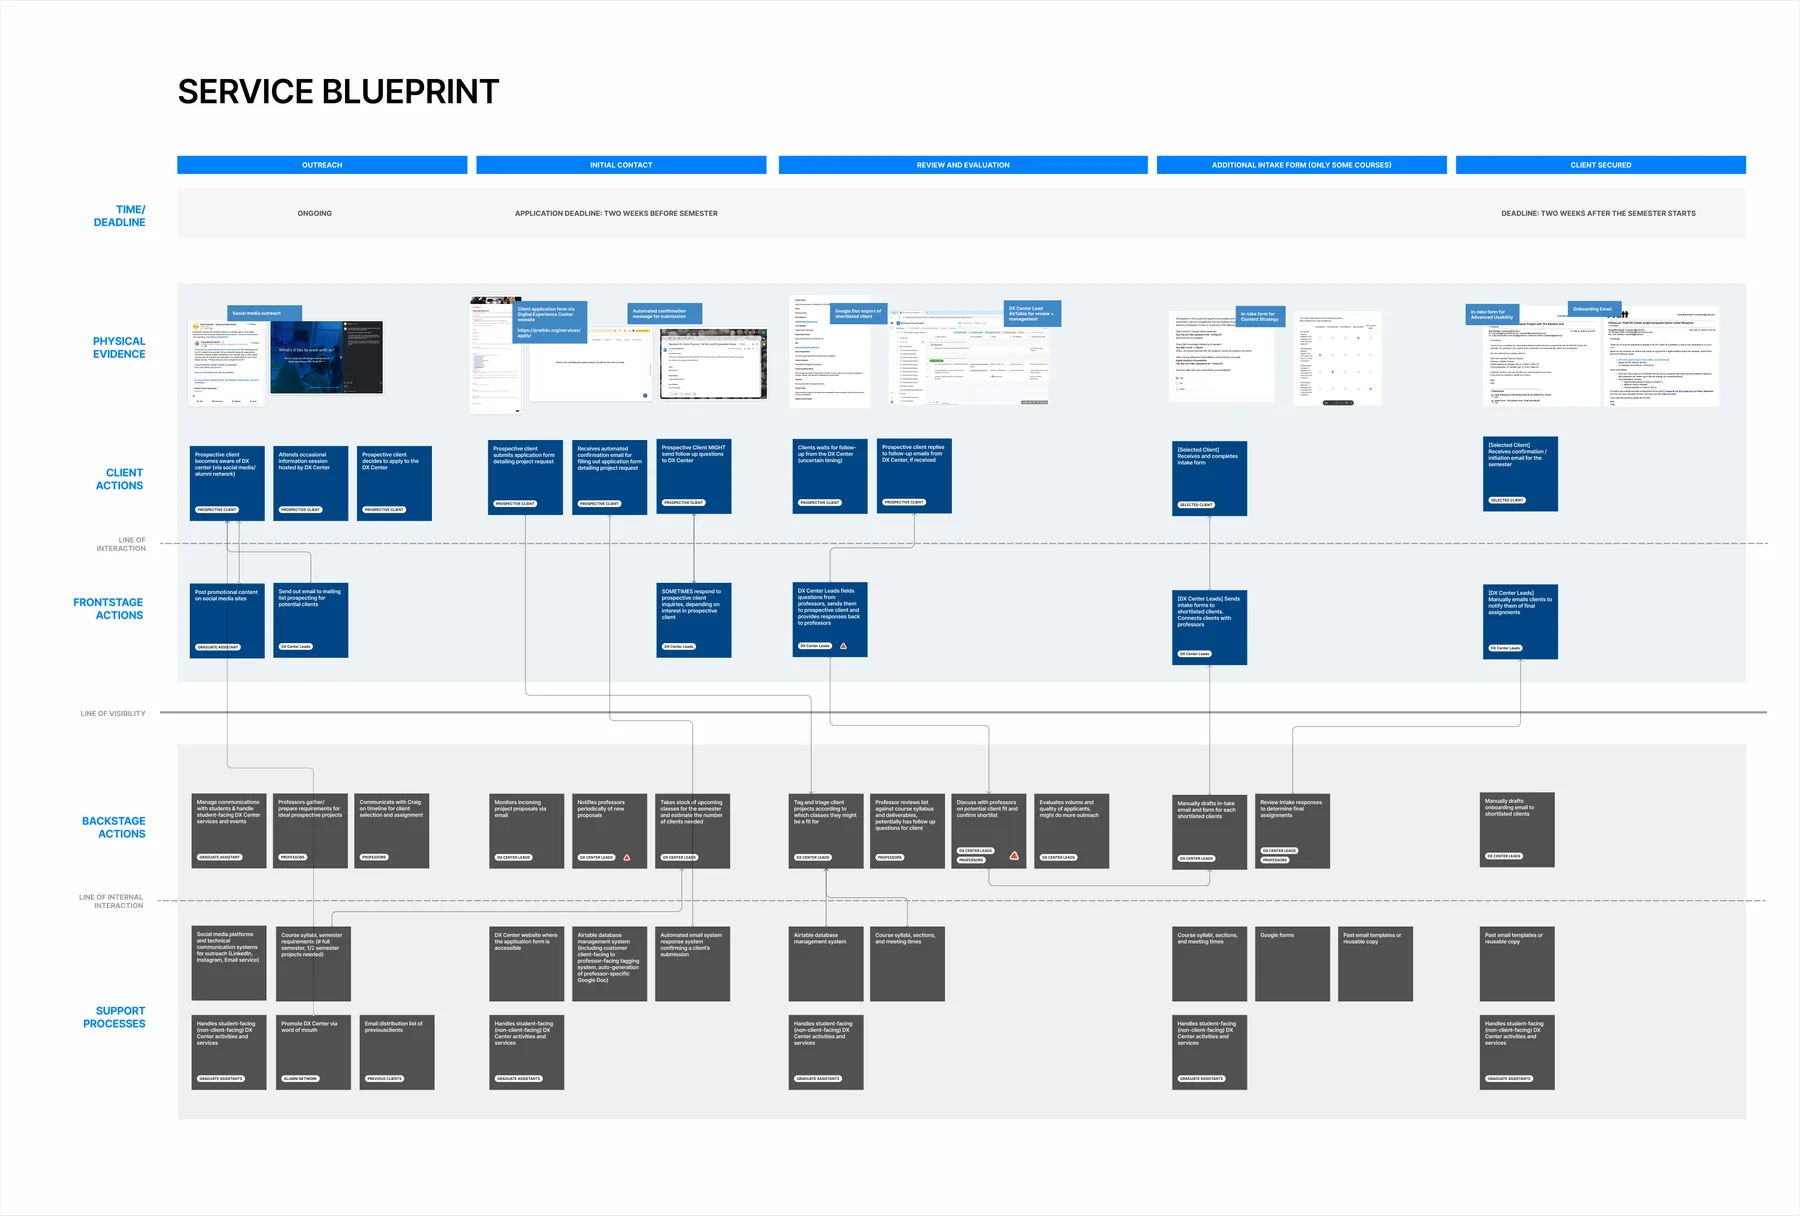
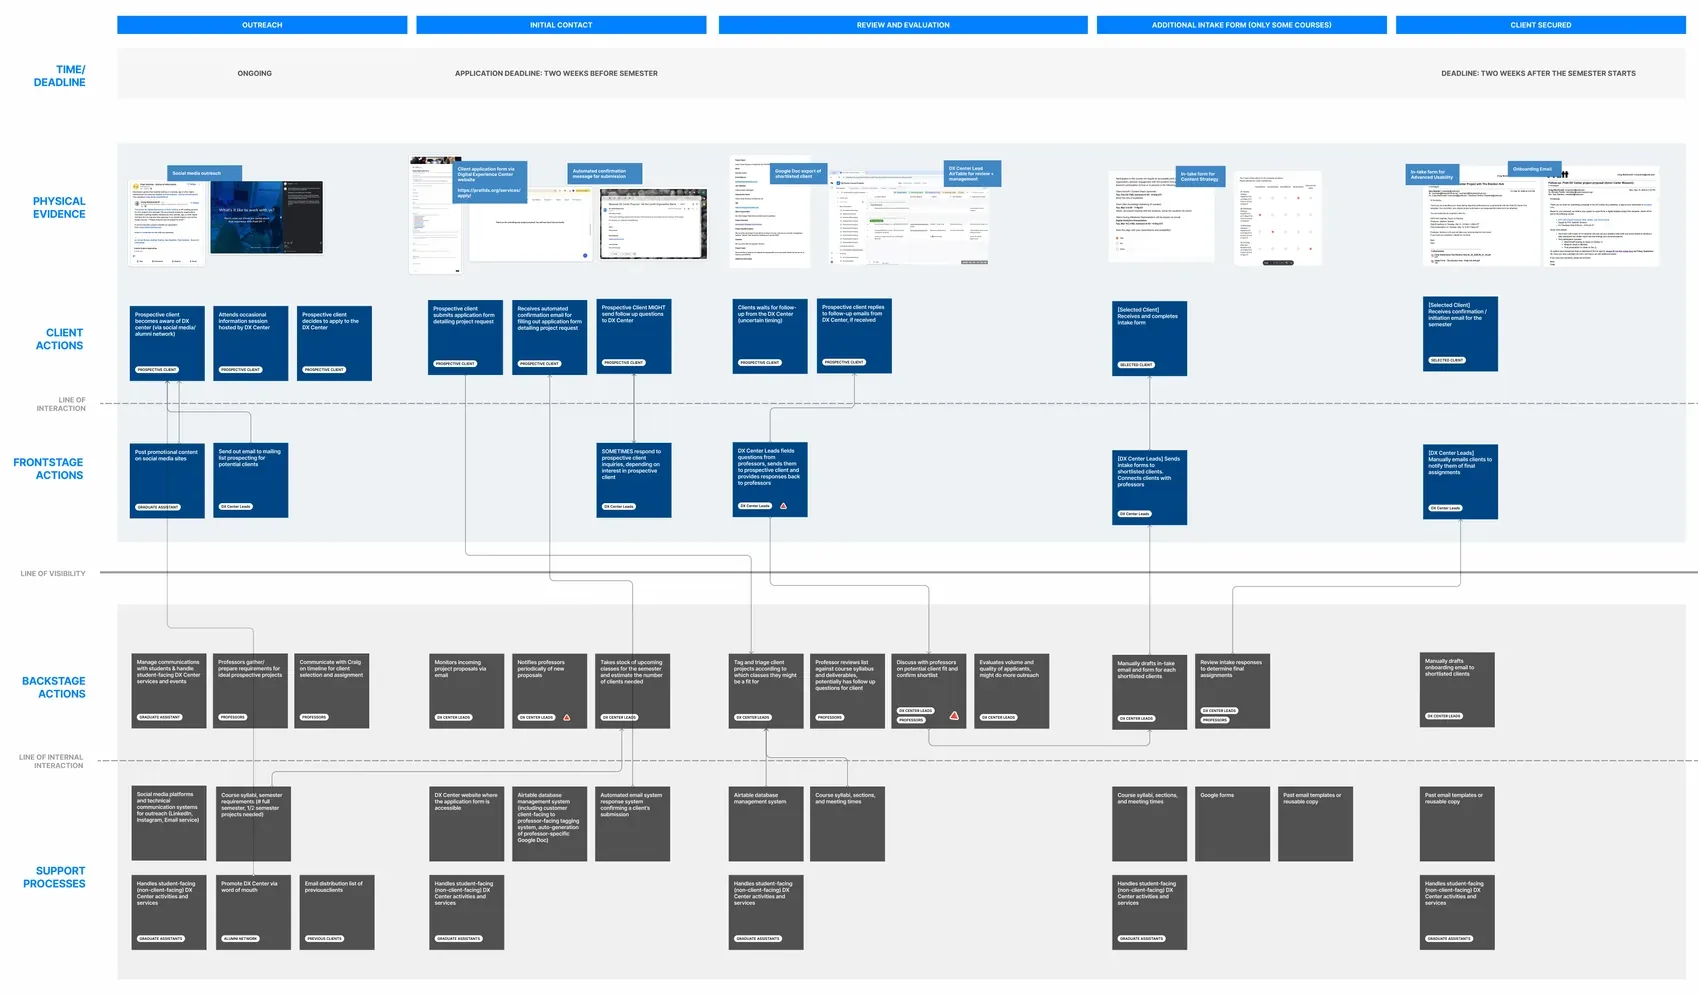
Rework Key Findings section and crop client blueprint
Sync the updated Key Findings copy from Notion: replace the two
two-column findings with one overarching statement plus three
sub-findings (Craig did everything, professors stuck waiting,
unsuitable clients left in the dark). Lay out finding 1 as text-left /
image-right, findings 2 and 3 as heading-left / prose-right, and order
the client block last.

Also crop the "SERVICE BLUEPRINT" title off the client-facing service
blueprint image for a tighter frame.

diff --git a/app/work/service-design-case-study/page.tsx b/app/work/service-design-case-study/page.tsx
@@ -215,38 +215,83 @@ export default function ServiceDesignCaseStudyPage() {
 
                   {/* ── Key Findings ── */}
                   <Label>Key Findings</Label>
+                  <h2 className="text-h3 md:text-h2 font-normal text-text-primary leading-[1.3]">
+                    When Craig did it all, communication broke down and left professors and
+                    potential clients in the dark.
+                  </h2>
 
-                  {/* Subsection: Bottleneck */}
-                  <div>
-                    <TwoColumnSection heading="The DX Center was the bottleneck.">
+                  <div className="h-12" />
+
+                  {/* Finding 1: Craig did everything */}
+                  <div className="flex flex-col md:flex-row gap-8 items-start">
+                    <div className="flex-1 min-w-0">
+                      <h3 className="text-h4 md:text-h3 font-normal text-text-primary leading-[1.3]">
+                        Craig was doing it all — personalized communication, manual notifications,
+                        hands-on coordination of everything.
+                      </h3>
+                      <div className="h-6" />
                       <p className="text-body-small md:text-body-big text-text-secondary">
-                        Progress depended almost entirely on the DX Center Leads. Because they
-                        handled all outreach and client communication themselves, they didn&rsquo;t
-                        have capacity to respond to every potential client — even though they
-                        knew{' '}
-                        <span className="text-primary [&_a]:text-inherit">engagement directly drove quality client recruitment</span>. When the
-                        Leads got pulled into other work, the entire process stalled.
+                        Craig manually sent email blasts to previous clients, handled all
+                        communication with ad-hoc personalized responses (because it had proven to
+                        produce better conversion outcomes), reviewed initial client-to-course
+                        auto-matching in the Airtable database and coordinated all manual review
+                        and finalization of assignments with professors.
                       </p>
-                    </TwoColumnSection>
-                    <div className="h-12" />
-                    <ImageBlock src="/images/service-design-bottleneck-mapped.webp" alt="Illustration mapping the DX Center recruitment bottleneck — workload concentrated on the DX Center Leads" caption="DX Center bottleneck mapped" />
+                    </div>
+                    <div className="flex-1 min-w-0">
+                      <ImageBlock src="/images/service-design-bottleneck-mapped.webp" alt="Illustration mapping the DX Center recruitment bottleneck — workload concentrated on the DX Center Leads" caption="Bottleneck identification & zoom-in on the service blueprint" />
+                    </div>
                   </div>
 
                   <div className="h-12 md:h-24" />
 
-                  {/* Subsection: Downstream effects */}
+                  {/* Finding 2: Professors stuck waiting */}
                   <div>
-                    <TwoColumnSection heading="And that bottleneck caused delayed communication, mismatched expectations, and stakeholder stress.">
-                      <p className="text-body-small md:text-body-big text-text-secondary">
-                        Minimal communication with professors during recruitment built anxiety
-                        and{' '}
-                        <span className="text-primary [&_a]:text-inherit">decreased confidence in the success of their course</span>. The bottleneck
-                        at the early stage was producing negative downstream effects two and
-                        three roles removed.
-                      </p>
-                    </TwoColumnSection>
+                    <div className="flex flex-col md:flex-row gap-8 items-start">
+                      <div className="flex-1 min-w-0">
+                        <h3 className="text-h4 md:text-h3 font-normal text-text-primary leading-[1.3]">
+                          Professors got stuck in a waiting cycle, creating stress and weakening
+                          confidence in the service.
+                        </h3>
+                      </div>
+                      <div className="flex-1 min-w-0">
+                        <p className="text-body-small md:text-body-big text-text-secondary">
+                          Minimal communication with professors during recruitment built anxiety
+                          and{' '}
+                          <span className="text-primary [&_a]:text-inherit">decreased confidence in the success of their course</span>. The bottleneck
+                          at the early stage was producing negative downstream effects two and
+                          three roles removed.
+                        </p>
+                      </div>
+                    </div>
                     <div className="h-12" />
                     <ImageBlock src="/images/service-design-professor-experience.webp" alt="Diagram mapping the professor’s experience during recruitment — minimal communication producing anxiety and decreased confidence" caption="Professor experience mapped" />
+                  </div>
+
+                  <div className="h-12 md:h-24" />
+
+                  {/* Finding 3: Unsuitable clients left in the dark */}
+                  <div className="flex flex-col md:flex-row gap-8 items-start">
+                    <div className="flex-1 min-w-0">
+                      <h3 className="text-h4 md:text-h3 font-normal text-text-primary leading-[1.3]">
+                        Potential clients not suitable for this recruitment cycle, but maybe for
+                        the next, were getting left in the dark with no explanation, creating a
+                        lost opportunity for the DX Center.
+                      </h3>
+                    </div>
+                    <div className="flex-1 min-w-0">
+                      <p className="text-body-small md:text-body-big text-text-secondary">
+                        Every recruitment cycle is different, and sometimes there are too many
+                        clients and not enough project teams. Because Craig doesn&rsquo;t have the
+                        capacity to respond to every prospective client, clients who could be a
+                        great fit for a different cycle are getting a poor experience, making them
+                        unlikely to apply again in the future. This violates the principles of
+                        good service design that{' '}
+                        <InlineLink href="https://good.services/principle-10" external>there should be no dead ends</InlineLink>, actors should{' '}
+                        <InlineLink href="https://good.services/principle-14" external>receive clear explanation for why a decision is made</InlineLink> and{' '}
+                        <InlineLink href="https://good.services/principle-15" external>be able to access human assistance</InlineLink>.
+                      </p>
+                    </div>
                   </div>
                 </section>
 
